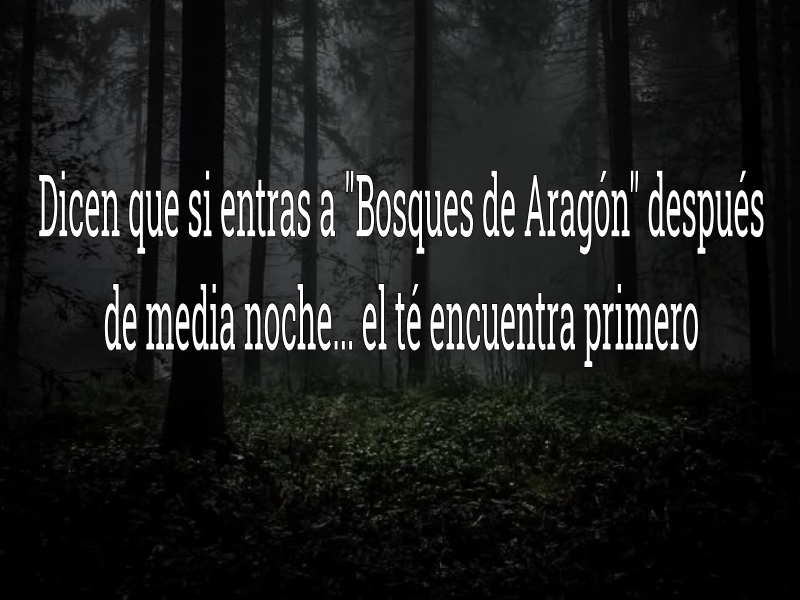
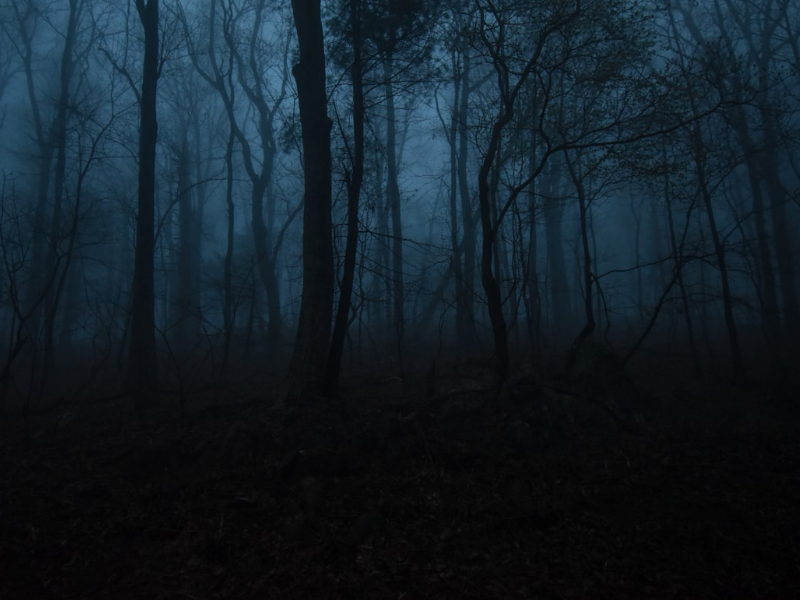
Se agrego un json y se cambio el fondo

diff --git a/Proyecto/scenes/escena1.py b/Proyecto/scenes/escena1.py
@@ -1,15 +1,61 @@
-# Importaciones
 import pygame
 from pygame.locals import QUIT
 import sys
 from settings import ancho, alto, fps
+from utils.textos import cargar_textos
+
+# Función para dividir el texto en varias líneas según el ancho
+def dividir_texto(texto, fuente, ancho_max):
+    lineas = []
+    palabras = texto.split(" ")
+    linea_actual = ""
+
+    for palabra in palabras:
+        # Añadir la palabra a la línea actual
+        if fuente.size(linea_actual + " " + palabra)[0] <= ancho_max:
+            linea_actual += " " + palabra
+        else:
+            # Si la línea actual excede el ancho, añadirla a la lista de líneas
+            if linea_actual != "":
+                lineas.append(linea_actual)
+            # Comenzamos una nueva línea con la palabra actual
+            linea_actual = palabra
+
+    # Añadir la última línea si existe
+    if linea_actual != "":
+        lineas.append(linea_actual)
+
+    return lineas
 
 # Se crea la clase de escena 1
 class Escena1():
     
     def __init__(self):
+        '''Función que inicializa pantalla, fondos, reloj, y textos'''
 
-        # Configuracion de la pantalla de la escena 1
+        # Cargar el json:
+        self.textos = cargar_textos("dialogos_escena1.json")["escena1"]
+
+        # Configuración de los textos:
+        self.fuente = pygame.font.Font(None, 36)
+
+        # Dividir los textos para evitar que se desborden
+        lineas_linea1 = dividir_texto(self.textos["narrador_linea1"], self.fuente, ancho - 100)
+        lineas_linea2 = dividir_texto(self.textos["narrador_linea2"], self.fuente, ancho - 100)
+
+        # Configuración de las líneas de texto
+        self.textos_linea1 = [self.fuente.render(linea, True, (255, 255, 255)) for linea in lineas_linea1]
+        self.textos_linea2 = [self.fuente.render(linea, True, (255, 255, 255)) for linea in lineas_linea2]
+
+        # Posicionamiento de las líneas
+        self.rect_narrador_linea1 = [texto.get_rect(center=(ancho // 2, 100 + 40 * i)) for i, texto in enumerate(self.textos_linea1)]
+        self.rect_narrador_linea2 = [texto.get_rect(center=(ancho // 2, 200 + 40 * i)) for i, texto in enumerate(self.textos_linea2)]
+
+        # Renderizar la instrucción
+        self.texto_instruccion = self.fuente.render(self.textos["instruccion"], True, (200, 200, 200))
+        self.rect_instruccion = self.texto_instruccion.get_rect(center=(ancho // 2, 250 + 40 * (len(self.textos_linea1) + len(self.textos_linea2))))
+
+        # Configuración de la pantalla de la escena 1
         self.pantalla = pygame.display.set_mode((ancho, alto))
         pygame.display.set_caption('Escena 1 - Bosque')
 
@@ -18,7 +64,7 @@ class Escena1():
         self.fondo = pygame.image.load('Proyecto/assets/imagenes/escena_1.png')
         self.fondo = pygame.transform.scale(self.fondo, (ancho, alto))
 
-    # Funcion para funcionamiento de la escena
+    # Función para funcionamiento de la escena
     def run(self):
         ejecutando = True
 
@@ -28,9 +74,26 @@ class Escena1():
                 if event.type == pygame.QUIT:
                     pygame.quit()
                     sys.exit()
-
+            
+            # Dibujos
             # Dibujar el fondo
             self.pantalla.blit(self.fondo, (0, 0))
+            
+            # Dibujar las líneas de texto
+            for i, texto in enumerate(self.textos_linea1):
+                self.pantalla.blit(texto, self.rect_narrador_linea1[i])
+            for i, texto in enumerate(self.textos_linea2):
+                self.pantalla.blit(texto, self.rect_narrador_linea2[i])
+            
+            # Dibujar la instrucción
+            self.pantalla.blit(self.texto_instruccion, self.rect_instruccion)
+
+            # Pantalla siempre activa
             pygame.display.flip()
+            # Renderizar a la velocidad adecuada
             self.reloj.tick(fps)
+
+
+
+
 

diff --git a/Proyecto/utils/textos.py b/Proyecto/utils/textos.py
@@ -1,0 +1,8 @@
+# Importaciones:
+import json
+import os
+
+def cargar_textos(nombre_archivo):
+    ruta = os.path.join(os.path.dirname(__file__), "..", "data", nombre_archivo)
+    with open(ruta, "r", encoding="utf-8") as archivo:
+        return json.load(archivo)
